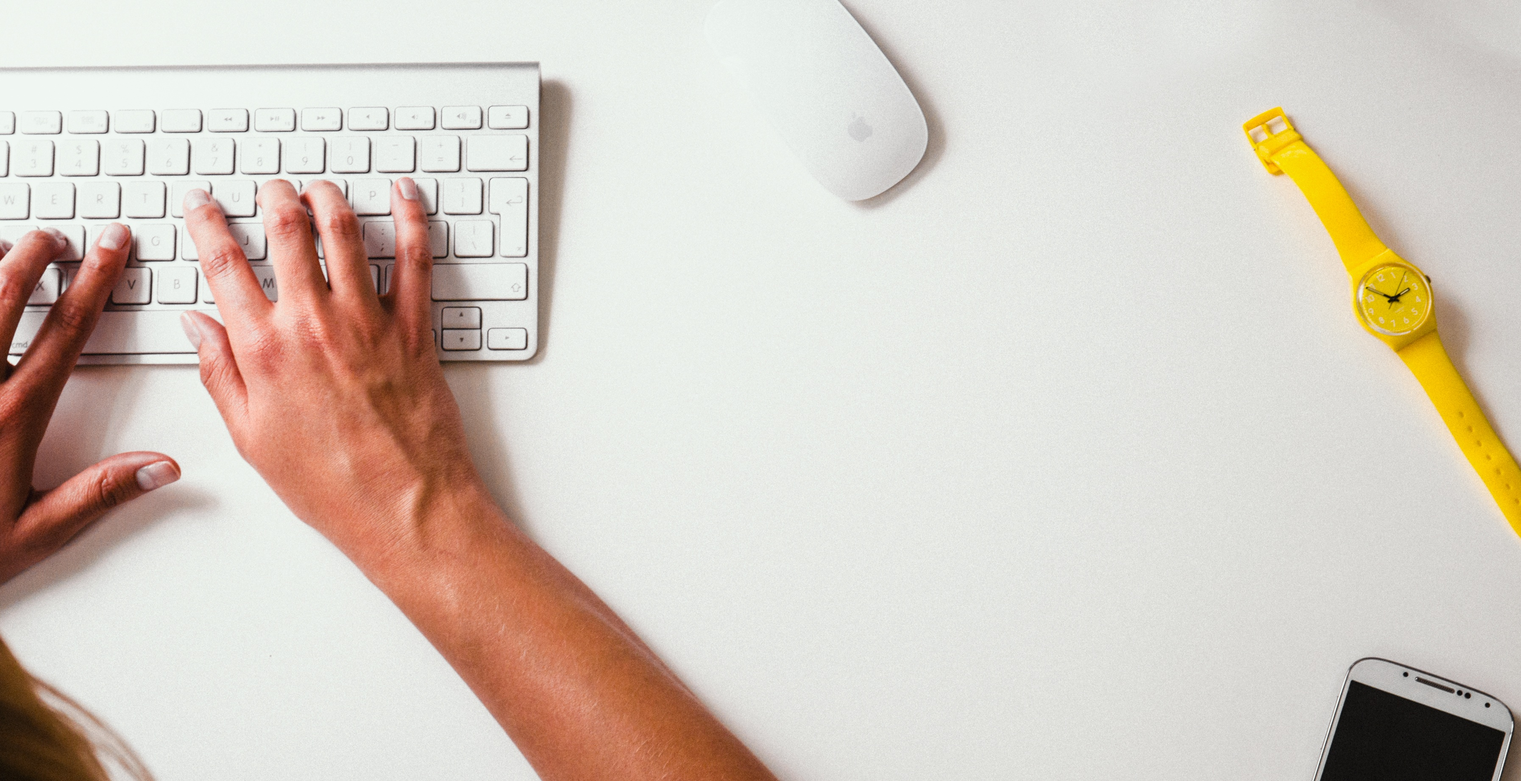
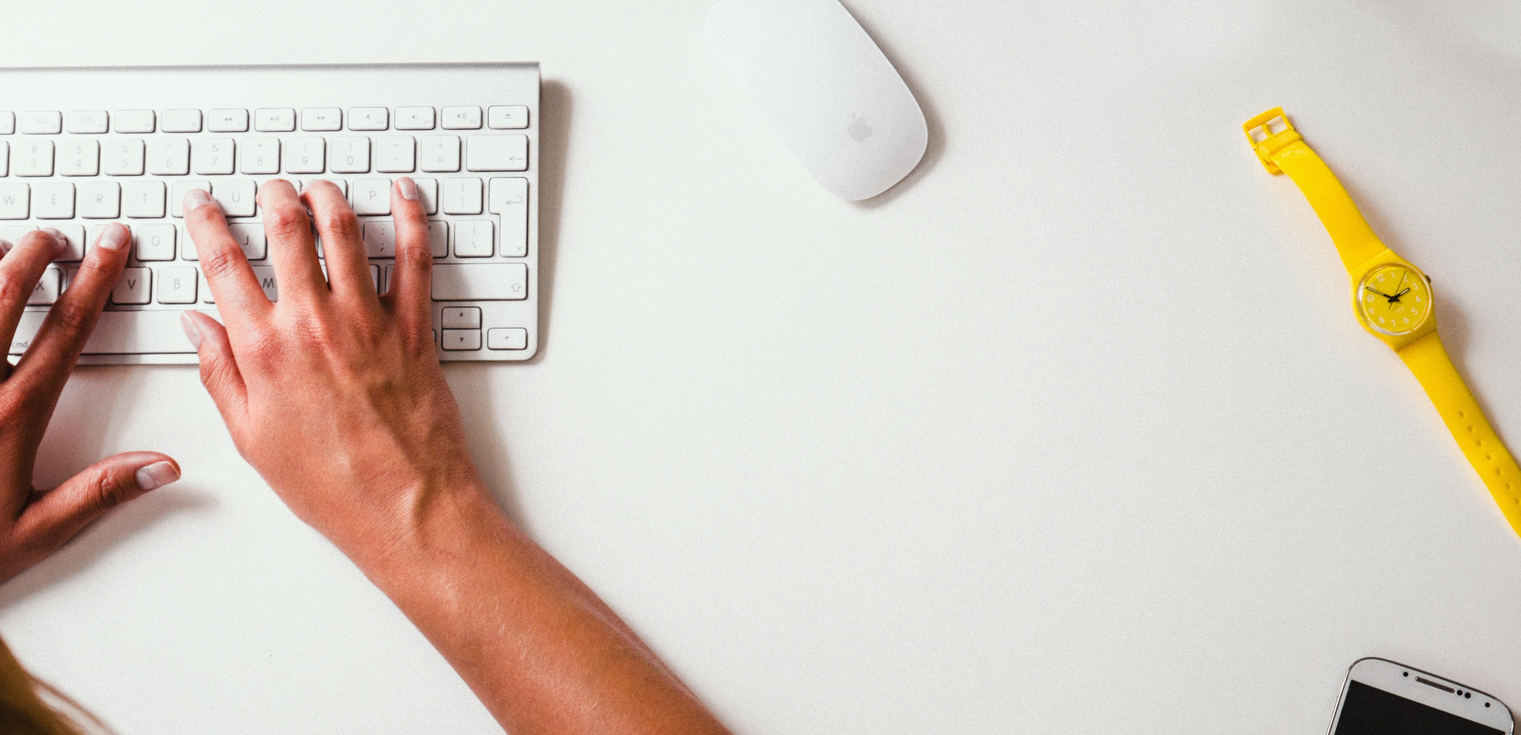
responsive image

diff --git a/_sass/_layout.scss b/_sass/_layout.scss
@@ -23,8 +23,11 @@ footer {
 }
 
 .feature{
-  height: 32rem;
+  height: 45rem;
   text-align: center;
+   @media (min-width: $large-breakpoint) {
+     height: 35rem;
+  }
 }
 
 img[src*="svg"]{
@@ -45,11 +48,14 @@ a.feature-link:hover {
 
 .feature-img {
   position: absolute;
-  width: 100%;
-    height: auto;
+  max-width: 1700px;
+ 
+  overflow: hidden;
+  height: auto;
     
   top: 2rem;
-  left: 0;
+  left: 50%;
+  margin-left: -850px;
   z-index: -99;
   opacity: 0.6;
 }

diff --git a/index.html b/index.html
@@ -11,7 +11,7 @@ title: Home
 		{{ post.excerpt }}
 	</div>
 	<div class="layer">
-		<img class="feature-img" src="img/desk.jpg">
+		<img class="feature-img" src="img/desk2.jpg">
 	</div>
 	<a class="feature-link" href="{{ site.baseurl }}{{ post.url }}">
 		<div id="readnow">Read Now</div>

diff --git a/_posts/2016-03-09-kotlin-vertx-getting-started.md b/_posts/2016-03-09-kotlin-vertx-getting-started.md
@@ -1,0 +1,154 @@
+---
+layout: post
+title: Getting started with Vert.x and Kotlin 
+comments: true
+permalink: /blog/kotlin-vertx-getting-started
+---
+[<img src="{{ site.url }}/img/github.svg">](https://github.com/erwindeg/kotlin-example)
+Vert.x is my favorite JVM framework of recent years. And since I discovered Kotlin, it's becoming my favorite JVM language. So you can probably guess how happy I was when I discovered the [kotlin language bindings](https://github.com/cy6erGn0m/vertx3-lang-kotlin) for Vert.x!
+Because of the nice syntactic sugar, Kotlin makes Vert.x code a lot more readable. 
+
+Example:
+
+```java
+
+fun main(args: Array<String>) {
+    DefaultVertx {
+        httpServer(8080) { request ->
+            bodyJson {
+                object_(
+                        "message" to "Hello World!"
+                )
+            }
+        }
+    }
+}
+
+```
+
+Off course, this syntax is possible because of the language bindings themselves. When looking into the language binding code, we discover this function, which makes use of Vert.x as the receiver object:
+
+```java
+public inline fun DefaultVertx(options: VertxOptions = VertxOptions(), block: Vertx.() -> Unit): Unit {
+    Vertx.vertx(options).with(block)
+}
+```
+
+Furthermore, the ability of Kotlin to place a function outside of the parenthesis, between curly braces, makes the syntax very nice and readable. So let's have a look at how to start with Kotlin and Vert.x in a Maven project.
+
+## Maven configuration
+For reference, I'm posting almost the complete pom.xml. The import parts are the dependency to vertx-core (add more vert.x dependencies if you need them, like hazelcast for clustering or web for http routing), the vertx3-lang-kotlin language bindings (and the repository) and the kotlin compiler plugin. The full example on [github](https://github.com/erwindeg/kotlin-example) also contains the maven shade plugin, which lets you build a fat runnable jar.
+
+```xml
+ <properties>
+        <vertx.version>3.2.1</vertx.version>
+        <kotlin.version>1.0.0</kotlin.version>
+    </properties>
+    <dependencies>
+        <dependency>
+            <groupId>io.vertx</groupId>
+            <artifactId>vertx-core</artifactId>
+            <version>${vertx.version}</version>
+        </dependency>
+        <dependency>
+            <groupId>org.jetbrains.kotlinx</groupId>
+            <artifactId>vertx3-lang-kotlin</artifactId>
+            <version>[0.0.4,0.1.0)</version>
+        </dependency>
+       <dependency>
+            <groupId>org.jetbrains.kotlin</groupId>
+            <artifactId>kotlin-stdlib</artifactId>
+            <version>${kotlin.version}</version>
+        </dependency>
+    </dependencies>
+
+    <build>
+        <sourceDirectory>${project.basedir}/src/main/kotlin</sourceDirectory>
+        <testSourceDirectory>${project.basedir}/src/test/kotlin</testSourceDirectory>
+        <plugins>
+            <plugin>
+                <artifactId>kotlin-maven-plugin</artifactId>
+                <groupId>org.jetbrains.kotlin</groupId>
+                <version>${kotlin.version}</version>
+                <executions>
+                    <execution>
+                        <id>compile</id>
+                        <goals>
+                            <goal>compile</goal>
+                        </goals>
+                    </execution>
+                    <execution>
+                        <id>test-compile</id>
+                        <goals>
+                            <goal>test-compile</goal>
+                        </goals>
+                    </execution>
+                </executions>
+            </plugin>
+        </plugins>
+    </build>
+    <repositories>
+        <repository>
+            <id>bintray-cy</id>
+            <name>bintray-cy</name>
+            <url>http://dl.bintray.com/cy6ergn0m/maven</url>
+        </repository>
+    </repositories>
+```
+
+This is it, you can now use kotlin for Vert.x development. Since this is a Kotlin only project, our source files will go in src/main/kotlin.
+
+## Kotlin Vert.x example code
+Let's write some code. Create a new file Main.kt in src/main/kotlin in a package of your choice (I'm using nl.edegier). Remember that Kotlin allows for functions outside of classes, so we specify the main function on the file level:
+
+```java
+fun main(args: Array<String>) {
+    DefaultVertx {
+        httpServer(8080) { request ->
+            bodyJson {
+                object_(
+                        "message" to "Hello World!"
+                )
+            }
+        }
+    }
+}
+```
+
+This example starts an HTTP server on port 8080. For each request, a json object with the property "message" and value "hello world" is returned. From this example we immediately notice that Kotlin syntax is well suited to the callback style API of Vert.x. The nested code suddenly doesn't look so bad as it does in Java.
+
+For the next example, we create a sender and a receiver class which both inherit from AbstractVerticle:
+
+```java
+class Sender : AbstractVerticle() {
+    override fun start(){
+        vertx.setPeriodic(1000){
+            vertx.eventBus().publish("test-channel","hello world")
+        }
+    }
+}
+
+class Receiver : AbstractVerticle() {
+    override fun start() {
+        vertx.eventBus().consumer<String>("test-channel"){
+            println(it.body());
+        }
+    }
+}
+```
+
+The Sender Verticle post as message to the eventbus every 1000 ms. The Receiver Verticle prints all received messages.
+
+To deploy these Verticles, create the following main function:
+
+```java
+fun main(args: Array<String>) {
+    DefaultVertx {
+        deployVerticle(Receiver())
+        deployVerticle(Sender())
+    }
+}
+```
+
+Kotlin and Vert.x really are a perfect match, this is as much fun as you can have on the JVM! The full source of this example is available on [github](https://github.com/erwindeg/kotlin-example).
+
